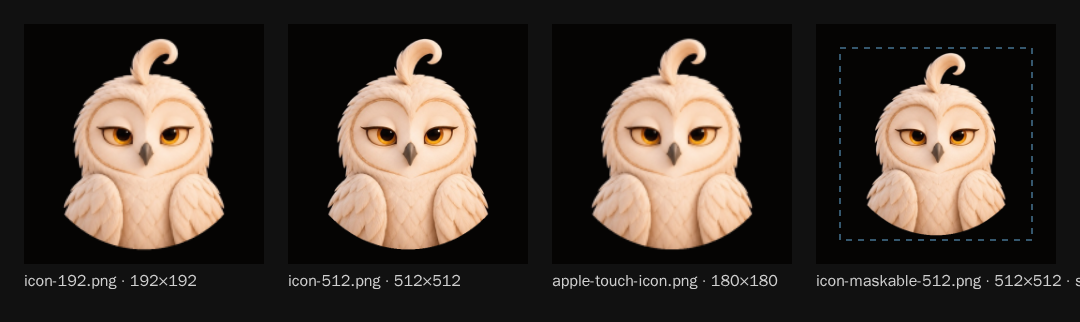
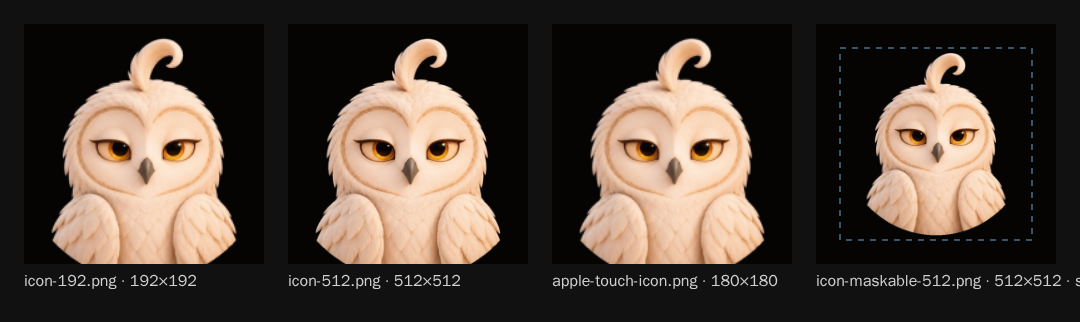
feat(pwa): сова на иконках домашнего экрана +15% и прижата к верху (#1151)
icon-192, icon-512 и apple-touch-icon: сова крупнее на 15% от пропорции
исходника, над пером 6% высоты иконки, нижняя дуга уходит за край.
maskable-512 не менялась (sha256 прежний).

Changed region(s): [[0.5194, 0.1242, 0.7333, 0.8385], [0.275, 0.1242, 0.4889, 0.8385], [0.0306, 0.1242, 0.2444, 0.8385]]

diff --git a/qa-evidence/brand/README.md b/qa-evidence/brand/README.md
@@ -22,15 +22,18 @@
 
 ## Результат
 
-| Файл                             | Размер    | Сова в кадре                 |
-| -------------------------------- | --------: | ---------------------------- |
-| `public/icons/icon-192.png`      | 192×192   | 88.5% по большей стороне     |
-| `public/icons/icon-512.png`      | 512×512   | 87.9%                        |
-| `public/apple-touch-icon.png`    | 180×180   | 87.8%                        |
+| Файл                             | Размер    | Сова в кадре                                    |
+| -------------------------------- | --------: | ----------------------------------------------- |
+| `public/icons/icon-192.png`      | 192×192   | 148×181, верх 11 px (5.7%), низ за краем на 13 |
+| `public/icons/icon-512.png`      | 512×512   | 394×482, верх 30 px (5.9%), низ за краем на 35 |
+| `public/apple-touch-icon.png`    | 180×180   | 140×170, верх 10 px (5.6%), низ за краем на 13 |
 | `public/icons/icon-maskable-512.png` | 512×512 | 76.2%, максимальный радиус 197.9 < 204.8 (безопасный круг 80%) |
 
-Сова центрирована: bounding box 512-й иконки `x 84…427`, `y 31…480`, центр 255.5.
-Перо на макушке не обрезано (верх совы — `y 31` при обрезке кольца снизу и по бокам).
+Сова прижата к верху, а не центрирована: окно кадра сдвинуто так, что над пером
+остаётся 6% высоты иконки, поэтому сову видно на 94% высоты, а нижняя дуга уходит
+за край (обрезка ≈7% высоты совы). Размер совы — пропорция исходника (0.8781) × 1.15,
+то есть на 15% крупнее прежней центрированной версии. maskable не менялась: правка
+кадрирования её не касается, sha256 файла прежний (`a2537a1a…`).
 
 Превью всех четырёх иконок: `owl-icons-preview.png` (на maskable пунктиром показана
 безопасная зона 80%).
